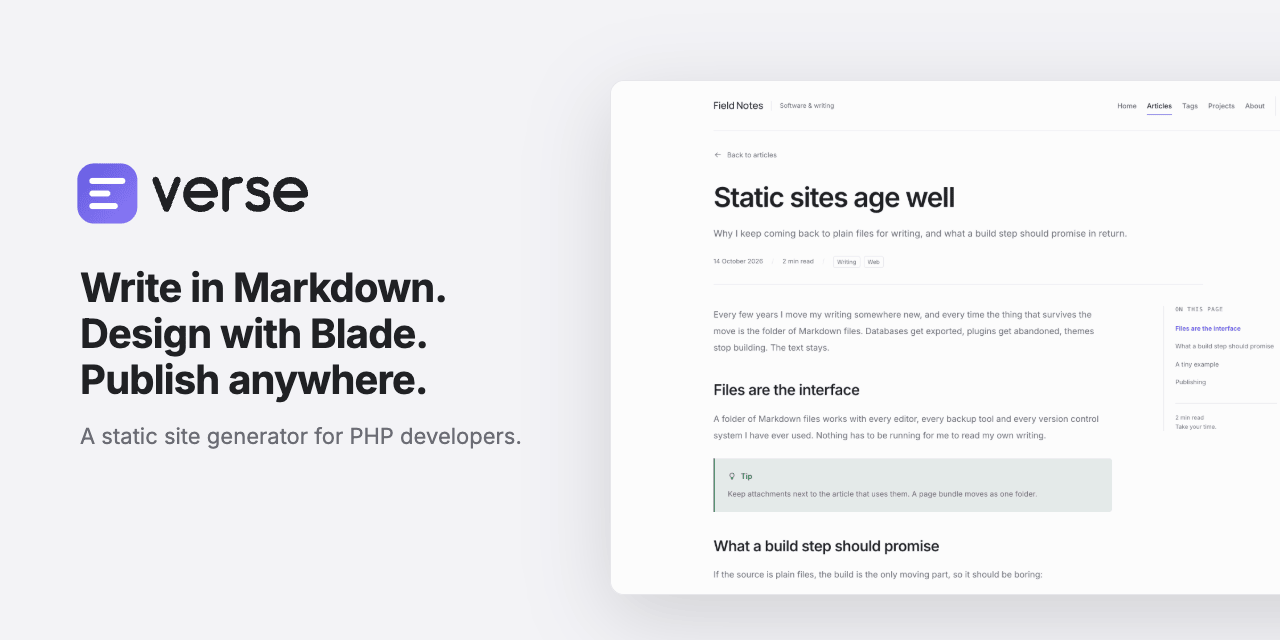
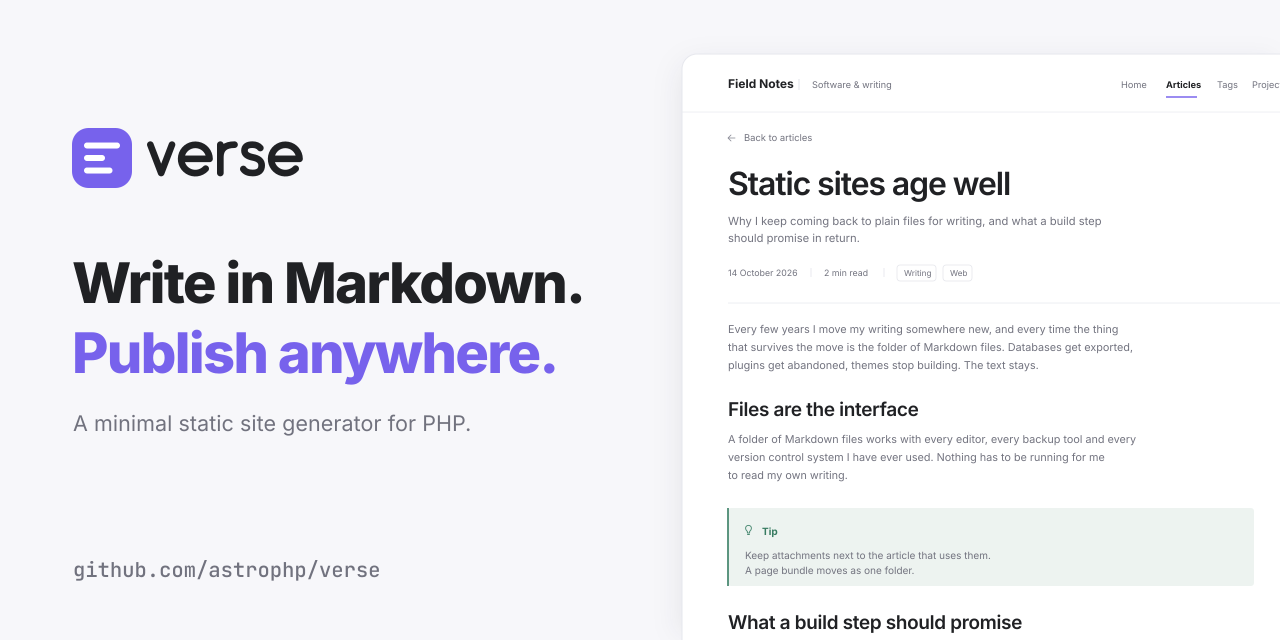
Prepare v0.1.0 (#3)
* Prepare v0.1.0

- Verse::VERSION is 0.1.0 and the changelog entry is "## v0.1.0 - 2026-10-21".
- README: the pre-release notice and the dev-main install note are gone.
- ROADMAP: verse check, feeds, built-output link validation and structured
  data move to a v0.2.0 section.
- Tests read the version from Verse::VERSION instead of a literal.
- A new social preview image.

* Use a static MIT licence badge in the README

The GitHub-backed badge showed "invalid" while the repository was private
and GitHub's image cache kept it. A static badge, like the PHP one beside
it, depends on neither.

---------

diff --git a/tests/Integration/Site/SiteLoaderTest.php b/tests/Integration/Site/SiteLoaderTest.php
@@ -15,6 +15,7 @@ use Astro\Verse\Site\PublicationState;
 use Astro\Verse\Site\SiteModel;
 use Astro\Verse\Support\Warnings;
 use Astro\Verse\Tests\Support\TestCase;
+use Astro\Verse\Verse;
 use DateTimeImmutable;
 use InvalidArgumentException;
 use PHPUnit\Framework\Attributes\Test;
@@ -787,7 +788,7 @@ final class SiteLoaderTest extends TestCase
         $this->assertSame('/notes/', $context->basePath);
         $this->assertSame($root, $context->root);
         $this->assertSame($root.'/dist', $context->outputDir);
-        $this->assertSame('0.1.0-dev', $context->version);
+        $this->assertSame(Verse::VERSION, $context->version);
         $this->assertSame(BuildMode::Production, $context->mode);
         $this->assertFalse($context->drafts);
         $this->assertSame('default', $context->themeName());

diff --git a/tests/Unit/Console/ApplicationTest.php b/tests/Unit/Console/ApplicationTest.php
@@ -54,7 +54,7 @@ final class ApplicationTest extends TestCase
 
         $this->assertSame(0, $exit);
         $this->assertSame('Verse '.Verse::VERSION."\n", $tester->getDisplay());
-        $this->assertSame('Verse 0.1.0-dev', trim($tester->getDisplay()));
+        $this->assertSame('Verse '.Verse::VERSION, trim($tester->getDisplay()));
     }
 
     #[Test]
@@ -116,7 +116,7 @@ final class ApplicationTest extends TestCase
         $process->run();
 
         $this->assertSame(0, $process->getExitCode());
-        $this->assertSame('Verse 0.1.0-dev', trim($process->getOutput()));
+        $this->assertSame('Verse '.Verse::VERSION, trim($process->getOutput()));
     }
 
     #[Test]

diff --git a/src/Verse.php b/src/Verse.php
@@ -6,7 +6,7 @@ namespace Astro\Verse;
 
 final class Verse
 {
-    public const string VERSION = '0.1.0-dev';
+    public const string VERSION = '0.1.0';
 
     public static function packageRoot(): string
     {

diff --git a/README.md b/README.md
@@ -13,7 +13,7 @@
 <p align="center">
   <a href="https://github.com/astrophp/verse/actions/workflows/tests.yml"><img src="https://github.com/astrophp/verse/actions/workflows/tests.yml/badge.svg" alt="tests"></a>
   <a href="composer.json"><img src="https://img.shields.io/badge/PHP-8.4%2B-777BB4?logo=php&logoColor=white" alt="PHP 8.4 or later"></a>
-  <a href="LICENSE"><img src="https://img.shields.io/github/license/astrophp/verse" alt="MIT licence"></a>
+  <a href="LICENSE"><img src="https://img.shields.io/badge/license-MIT-green" alt="MIT licence"></a>
 </p>
 
 <p align="center">
@@ -35,8 +35,8 @@ Markdown files with YAML front matter and one `verse.yaml`; Verse renders it thr
 theme into plain static HTML, CSS and JavaScript that any static host can serve.
 
 > [!WARNING]
-> Verse is pre-release software (`0.1.0-dev`). Commands, configuration keys, theme views and output
-> may still change without notice.
+> Verse is early software (v0.1). Until v1.0.0, a minor version may change commands, configuration
+> keys, theme views and output; the [changelog](CHANGELOG.md) lists every change.
 
 - Three commands: `verse init`, `verse serve`, `verse build`.
 - Articles, pages, page bundles with attachments, tags, drafts and scheduled posts, external articles.
@@ -61,9 +61,6 @@ Install Verse globally with Composer from
 composer global require astrophp/verse
 verse --version
 ```
-
-Until v0.1.0 is tagged, Packagist has only the development version; install it with
-`composer global require astrophp/verse:dev-main`.
 
 Composer puts `verse` in its global bin directory. If your shell cannot find the command, add that
 directory to your `PATH`; `composer global config bin-dir --absolute` prints it. Update with

diff --git a/docs/releasing.md b/docs/releasing.md
@@ -6,8 +6,6 @@
    - `CHANGELOG.md` has an entry for the version: a heading `## vX.Y.Z`, optionally followed by
      ` - YYYY-MM-DD` (a date in exactly that shape; other text after the version is refused), then
      the release notes. The heading must match the tag exactly and the entry must not be empty.
-   - For v0.1.0 only: remove the "Until v0.1.0 is tagged" `dev-main` note from the README's
-     Installation section.
 2. Wait until the `tests` and `install` workflow runs for the head of `main` are green.
 3. Run `scripts/release/preflight.sh vX.Y.Z`, then run the `git tag … && git push …` command it
    prints, which tags the commit it checked.

diff --git a/ROADMAP.md b/ROADMAP.md
@@ -29,14 +29,14 @@ application, a CMS or a hosted service.
 - One complete bundled theme, `default`, configured from `verse.yaml` (logo, accent colour, table of
   contents), with light and dark mode and static search.
 
-Still to come before v0.1.0 is tagged:
+## v0.2.0 — next
 
 - `verse check`, which validates a website without publishing it.
 - An RSS feed, `sitemap.xml` and `robots.txt`.
 - Broken-link and heading-anchor validation of the built output.
 - Structured data in page metadata.
 
-## After v0.1.0
+## Later
 
 These are ideas, not promises.
 

diff --git a/CHANGELOG.md b/CHANGELOG.md
@@ -5,10 +5,9 @@ All notable changes to Verse are documented here. The format follows
 [Semantic Versioning](https://semver.org/spec/v2.0.0.html). Until v1.0.0, a minor version may change
 commands, configuration keys, theme views and output.
 
-## Unreleased
+## v0.1.0 - 2026-10-21
 
-The first release. Rename this heading to `## v0.1.0 - YYYY-MM-DD` when it is tagged; see
-[docs/releasing.md](docs/releasing.md).
+The first release.
 
 ### Added
 
